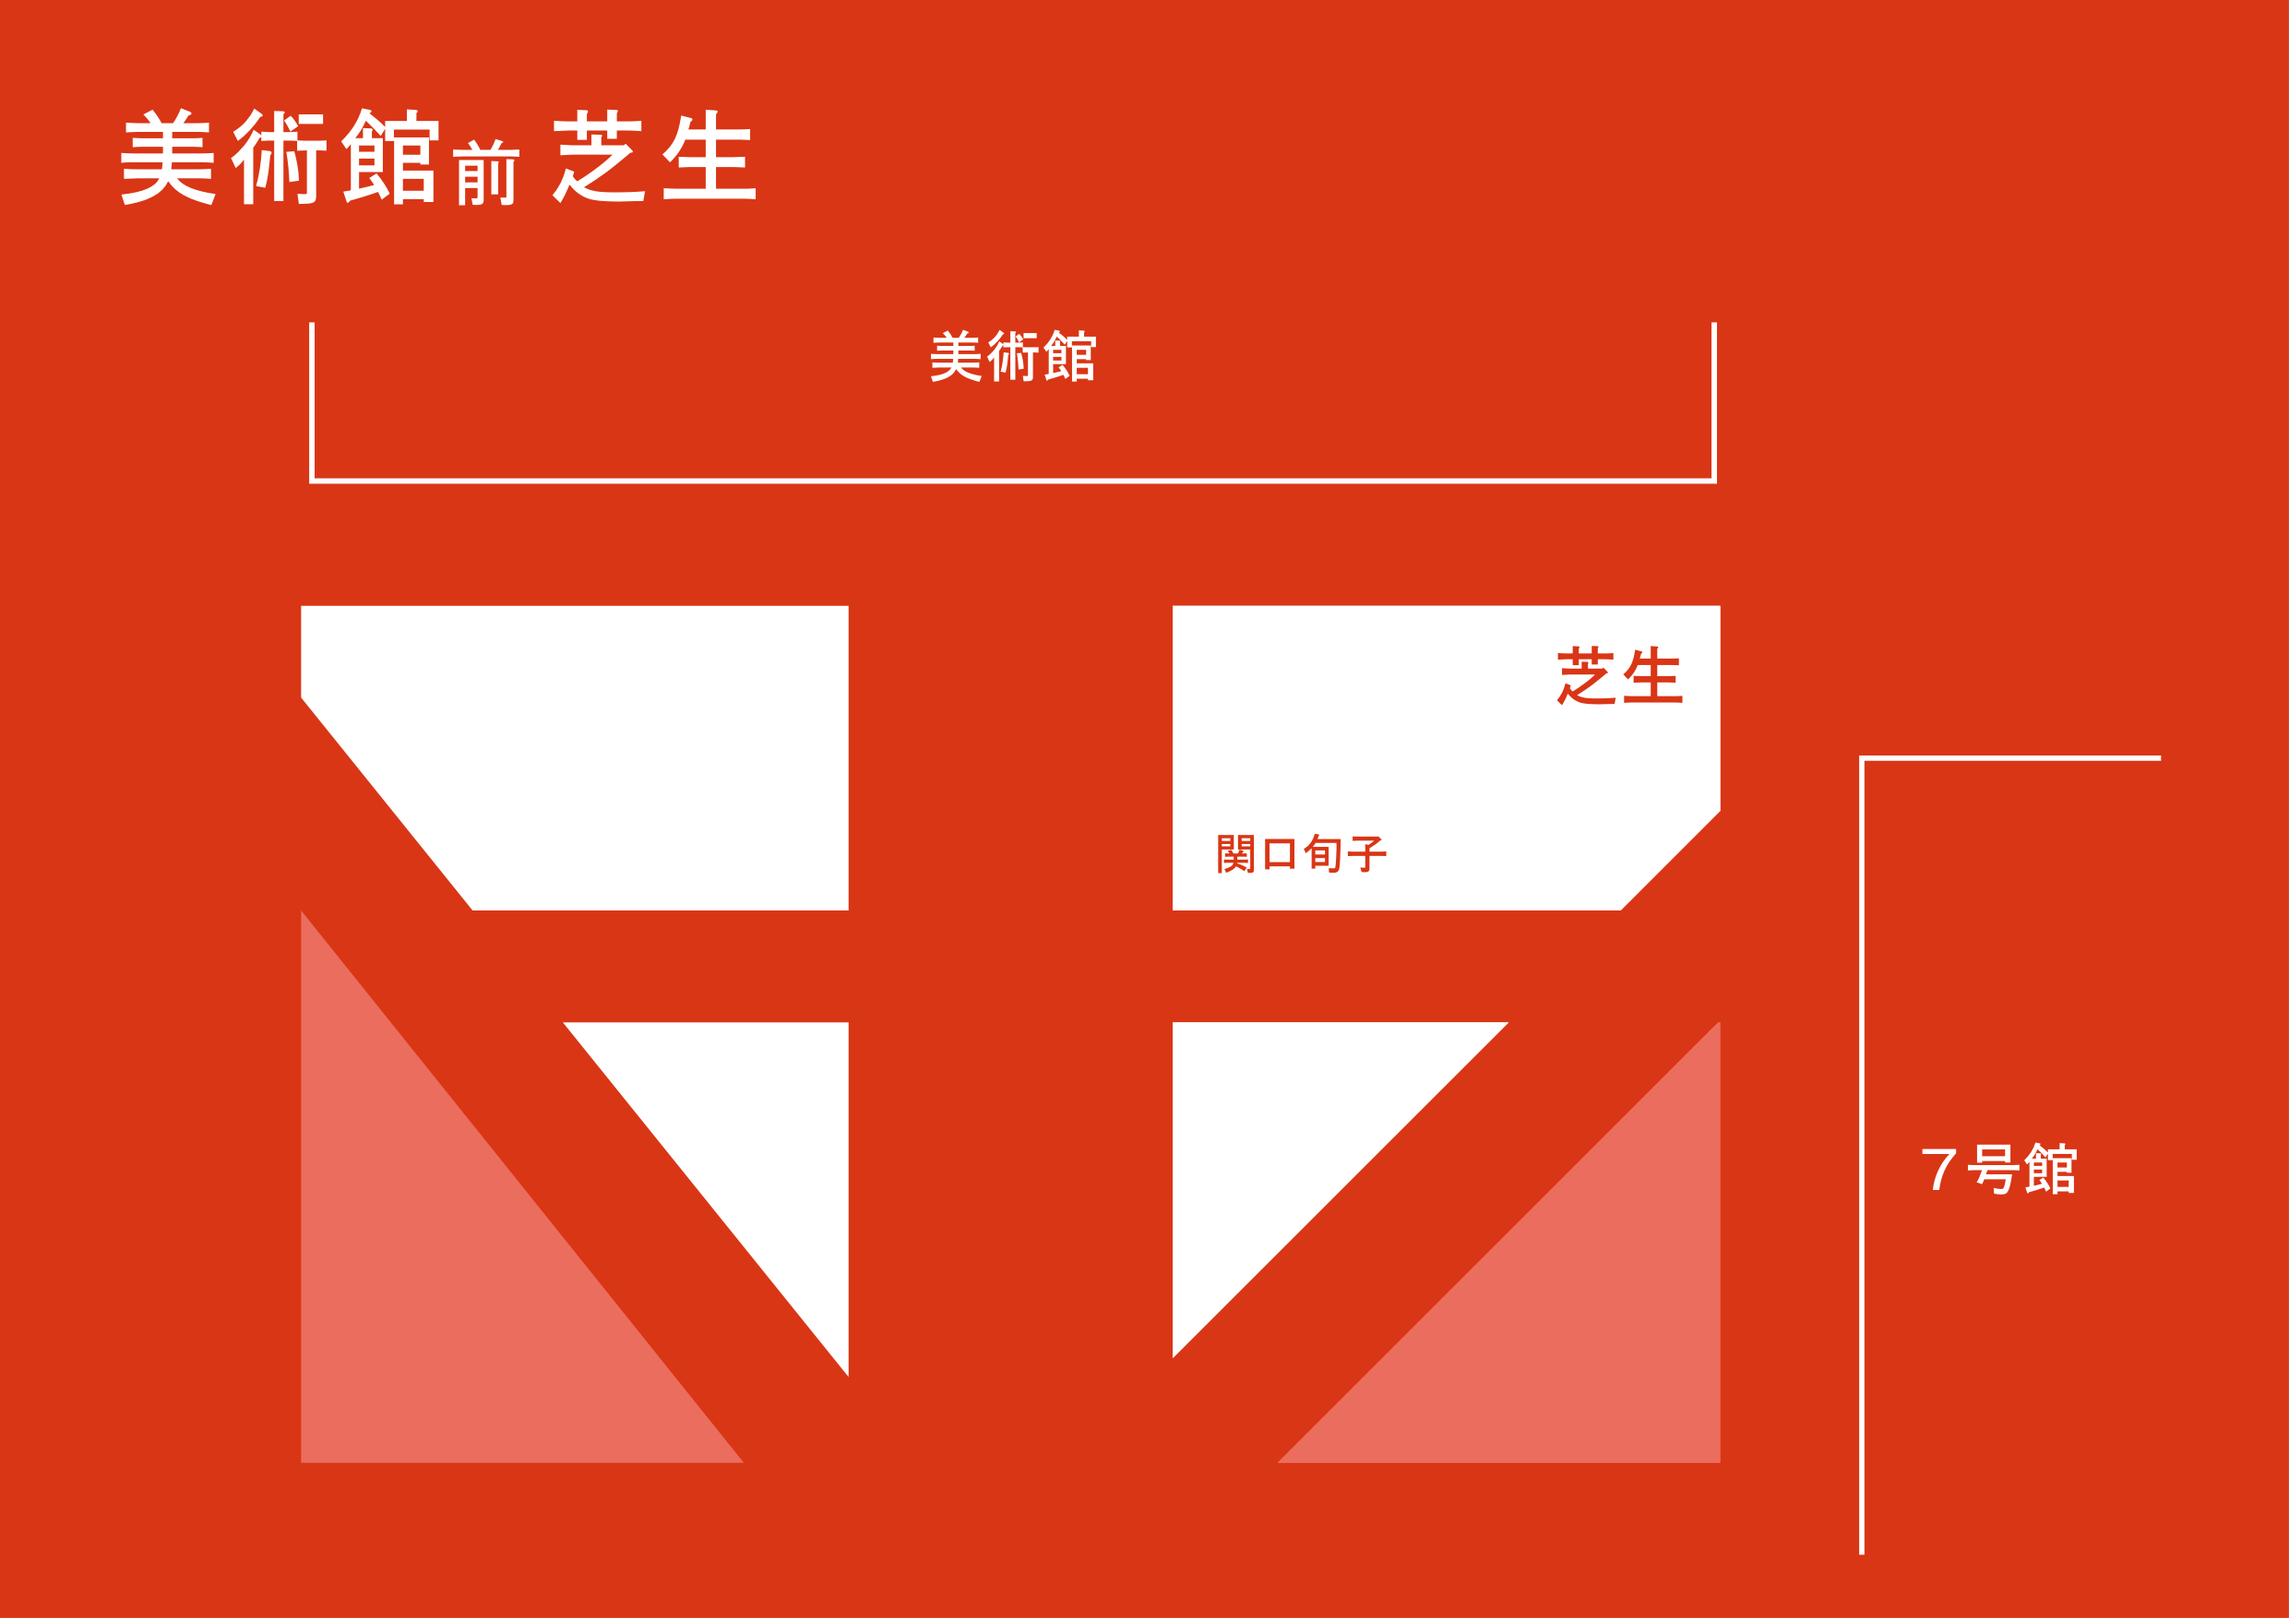
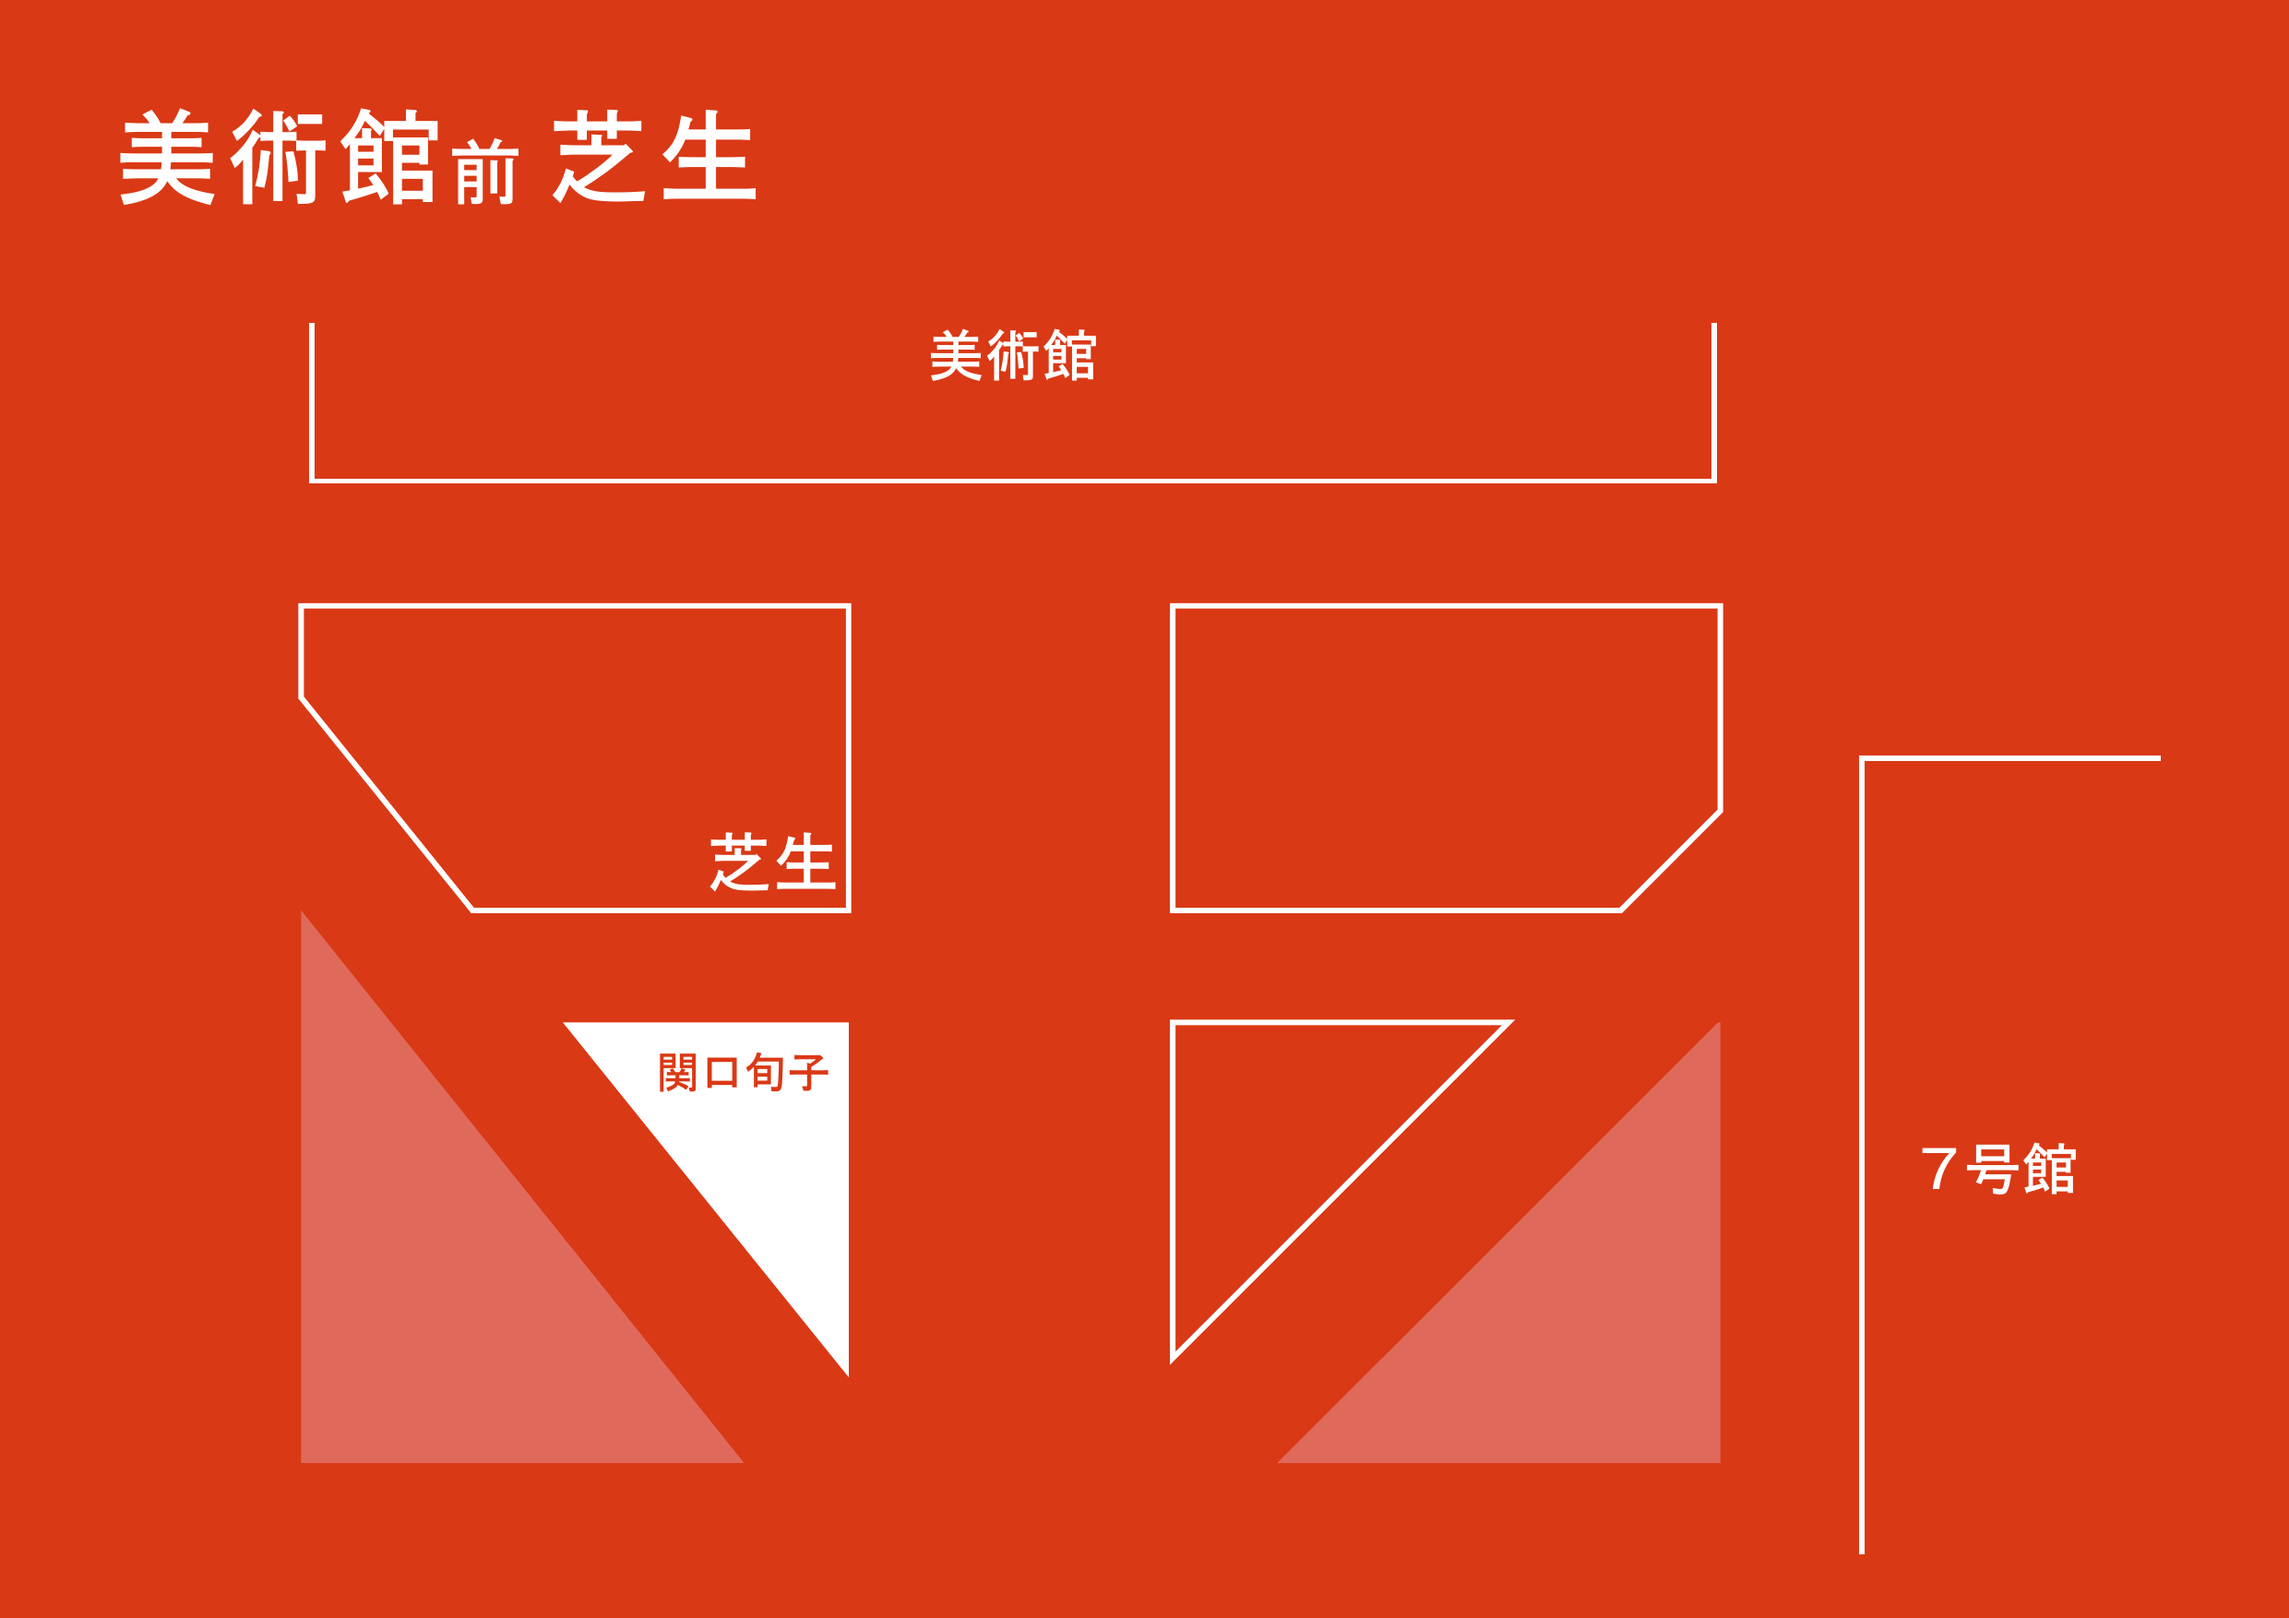
Update museum lawn exhibition map

diff --git a/assets/floor-guide.js b/assets/floor-guide.js
@@ -54,7 +54,7 @@
       map.className = 'floor-guide-map';
       const img = document.createElement('img');
       img.className = 'floor-guide-image';
-      img.src = `assets/img/map/floors/${path}-${direction}.png?v=20261124`;
+      img.src = `assets/img/map/floors/${path}-${direction}.png?v=20261124b`;
       img.alt = building + (name === '芝生' ? '' : ' ' + name) + 'のフロアマップ';
       map.append(img);
       section.append(map);

diff --git a/production/assets/floor-guide.js b/production/assets/floor-guide.js
@@ -54,7 +54,7 @@
       map.className = 'floor-guide-map';
       const img = document.createElement('img');
       img.className = 'floor-guide-image';
-      img.src = `assets/img/map/floors/${path}-${direction}.png?v=20261124`;
+      img.src = `assets/img/map/floors/${path}-${direction}.png?v=20261124b`;
       img.alt = building + (name === '芝生' ? '' : ' ' + name) + 'のフロアマップ';
       map.append(img);
       section.append(map);

diff --git a/index.html b/index.html
@@ -1979,7 +1979,7 @@
     })();
   </script>
 <script src="assets/catalog-carousel.js?v=20261109"></script>
-<script src="assets/floor-guide.js?v=20261124"></script>
+<script src="assets/floor-guide.js?v=20261124b"></script>
 <script src="assets/latin-baseline.js?v=20261121a" defer></script>
 </body>
 </html>

diff --git a/production/index.html b/production/index.html
@@ -1979,7 +1979,7 @@
     })();
   </script>
 <script src="assets/catalog-carousel.js?v=20261109"></script>
-<script src="assets/floor-guide.js?v=20261124"></script>
+<script src="assets/floor-guide.js?v=20261124b"></script>
 <script src="assets/latin-baseline.js?v=20261121a" defer></script>
 </body>
 </html>
